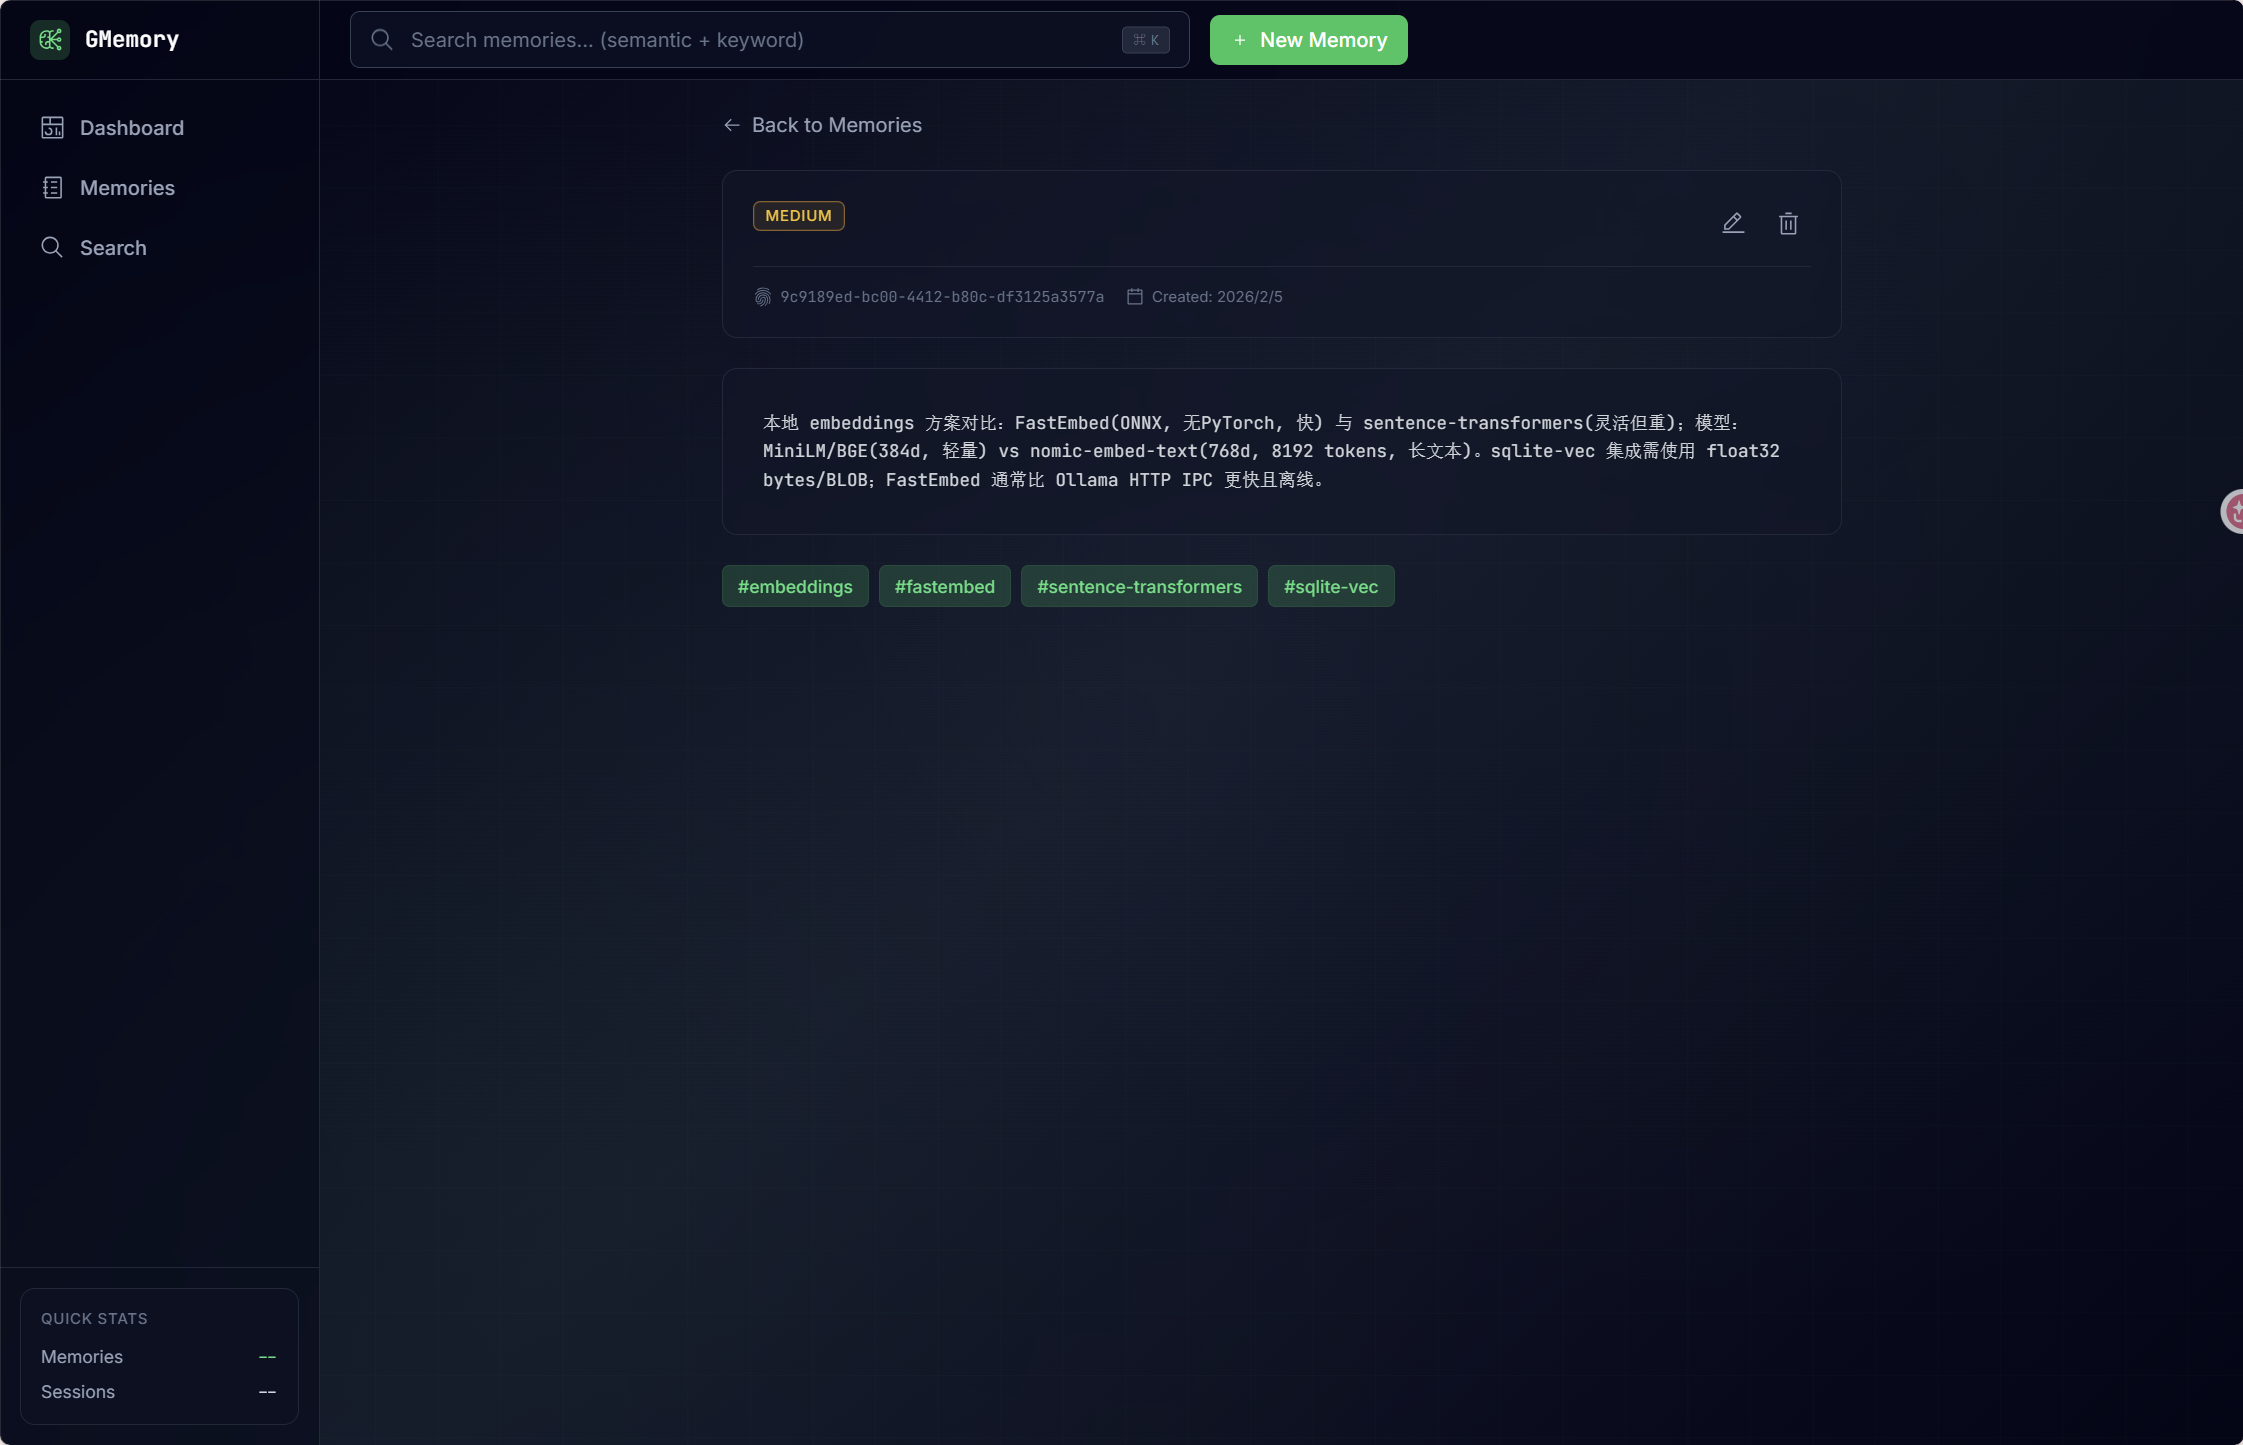
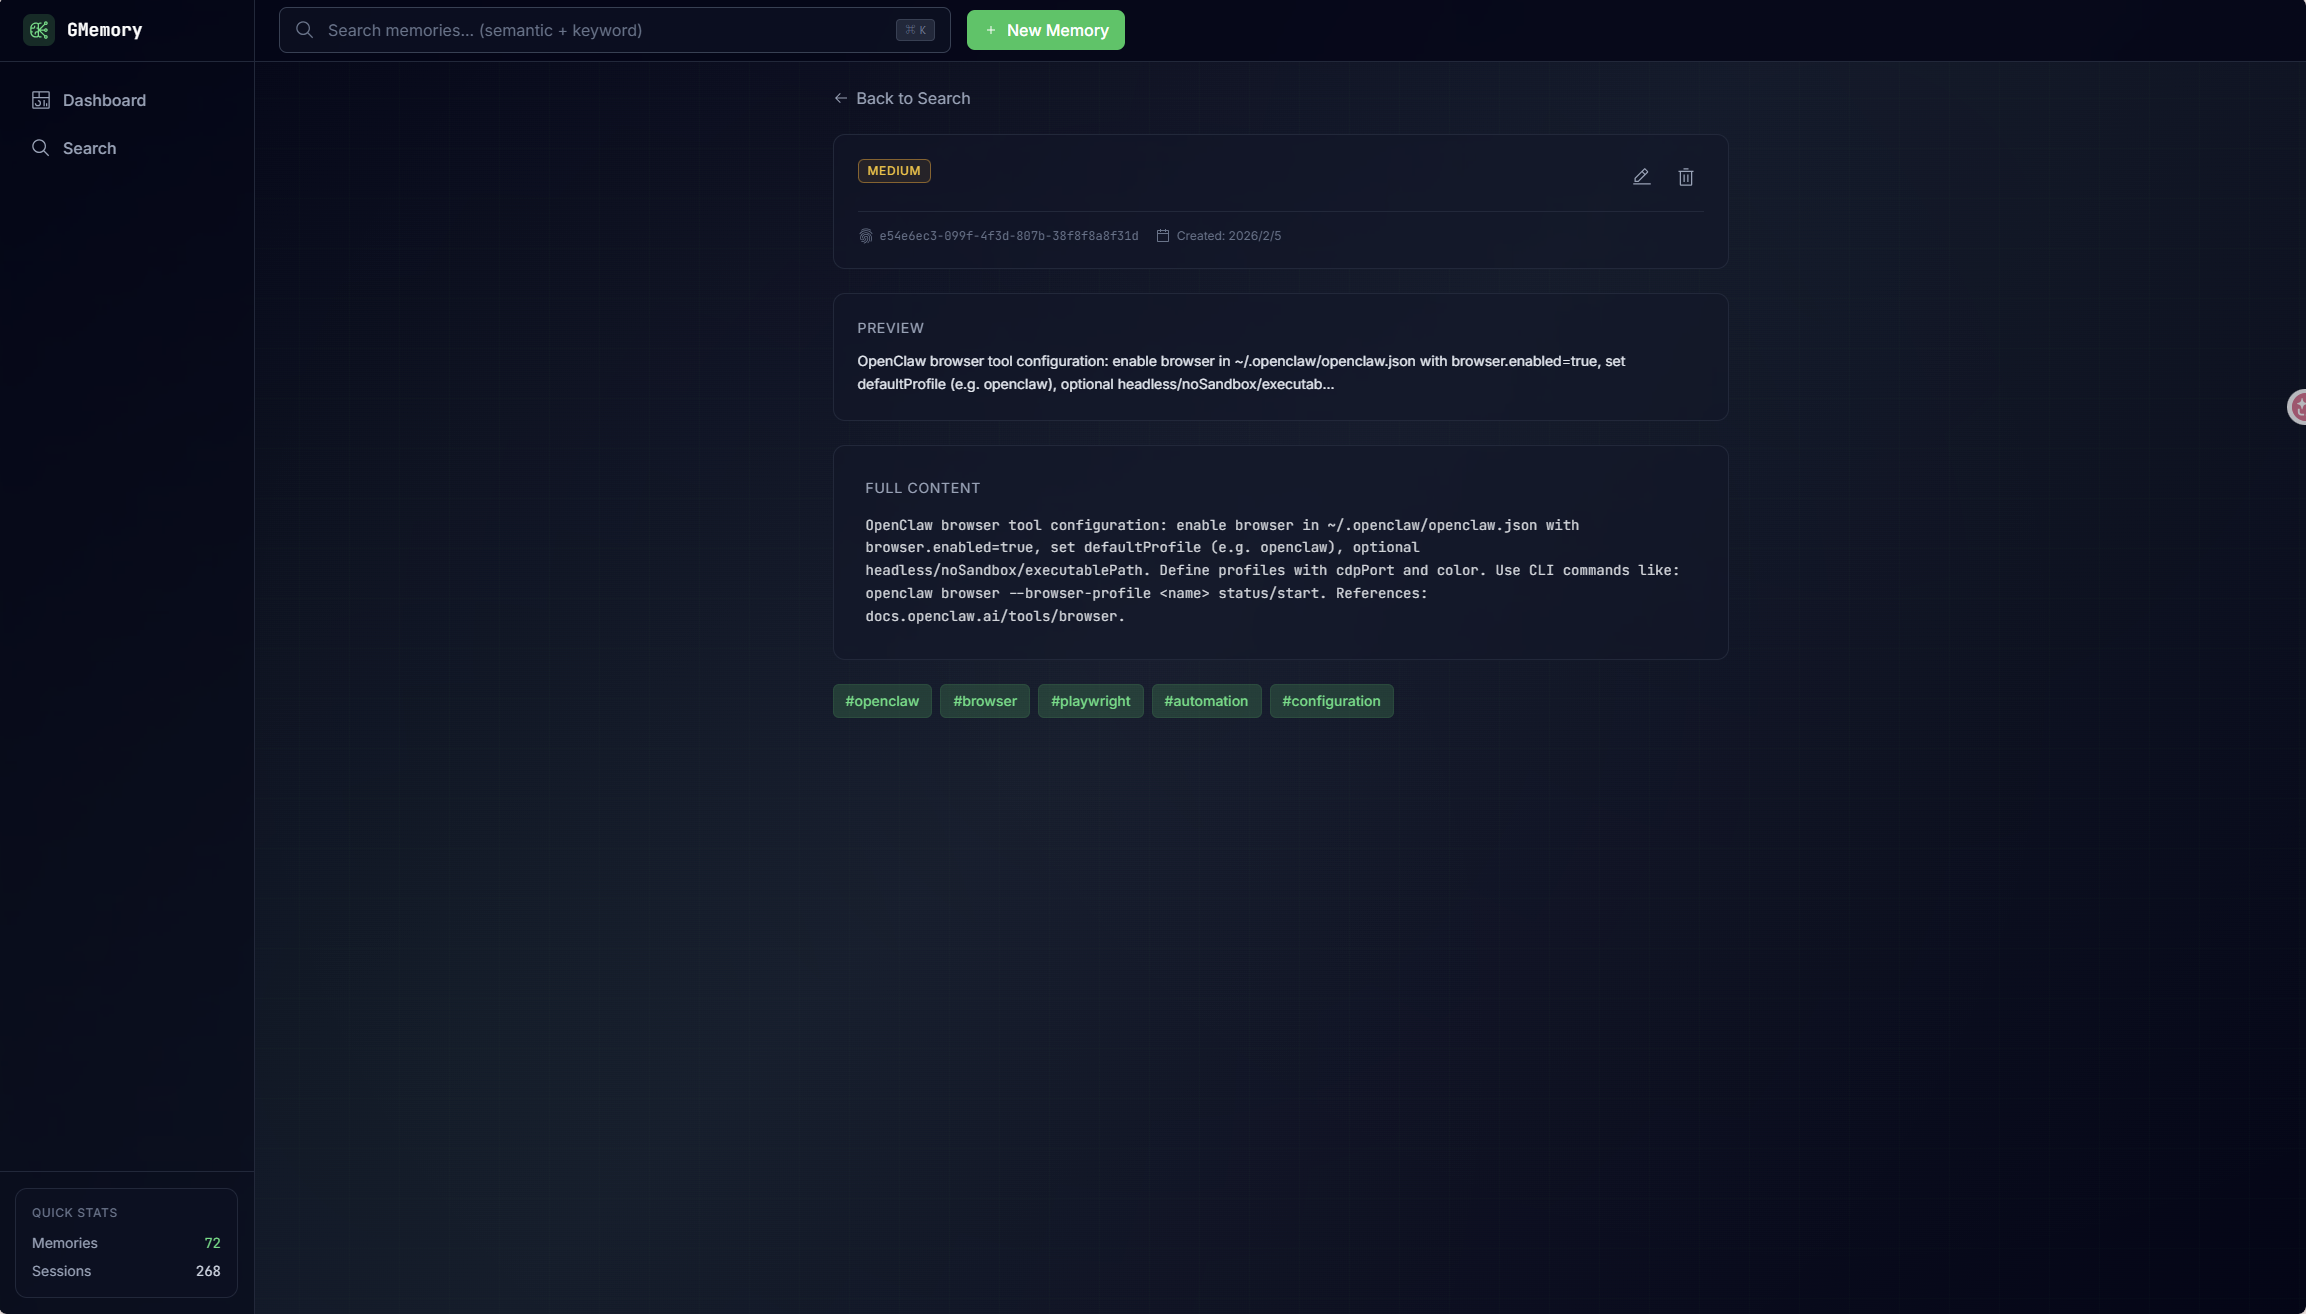
update

diff --git a/README_CN.md b/README_CN.md
@@ -8,6 +8,13 @@
 
 [English Documentation](README.md)
 
+<div align="center">
+  <img src="docs/mainpage.png" width="100%" alt="Dashboard" />
+  <br/>
+  <img src="docs/searchpage.png" width="48%" alt="Search Interface" />
+  <img src="docs/infopage.png" width="48%" alt="Memory Detail" />
+</div>
+
 ## 概述
 
 GMemory 是一个轻量级 CLI 工具，为 AI 编程助手提供持久化记忆能力。它扫描 OpenCode 会话日志，支持关键信息的提炼，并将记忆存储在本地 SQLite 数据库中，支持混合向量 + 全文搜索。
@@ -122,6 +129,31 @@ python -m gmemory.mcp
 ```
 
 客户端配置可参考 `docs/mcp-config.example.json`。
+
+在桌面环境使用 OpenCode 时，建议将 `mcp.gmemory.command` 配置为绝对路径，避免 PATH 解析差异导致连接失败。安装脚本在检测到 `~/.config/opencode/opencode.json` 时会自动写入该配置。
+
+### 端到端启动流程（OpenCode + MCP + Web）
+
+```bash
+# 1) 安装 / 升级
+powershell -ExecutionPolicy Bypass -File install.ps1   # Windows
+# 或
+./install.sh                                           # Linux/macOS
+
+# 2) 验证 CLI 与 MCP 相关命令
+gmemory health
+gmemory diagnostics
+
+# 3) 启动服务（Web UI 可选）
+gmemory-web
+cd web && npm run dev
+```
+
+如果 OpenCode 报 MCP `-32000`，优先检查：
+
+1. `~/.config/opencode/opencode.json` 里 `mcp.gmemory.command` 是否为绝对路径（不要只写 `gmemory-mcp`）。
+2. 修改配置后是否完全重启 OpenCode。
+3. `pm2` 保活 `gmemory-api` / `gmemory-frontend` 不会影响 stdio MCP 启动；常见根因是命令路径或环境变量。
 
 ## Web API 与前端
 

diff --git a/README.md b/README.md
@@ -8,6 +8,13 @@
 
 [中文文档](README_CN.md)
 
+<div align="center">
+  <img src="docs/mainpage.png" width="100%" alt="Dashboard" />
+  <br/>
+  <img src="docs/searchpage.png" width="48%" alt="Search Interface" />
+  <img src="docs/infopage.png" width="48%" alt="Memory Detail" />
+</div>
+
 ## Overview
 
 GMemory is a lightweight CLI tool that provides persistent memory for AI coding agents. It scans OpenCode session logs, enables distillation of key information, and stores memories in a local SQLite database with hybrid vector + full-text search.
@@ -122,6 +129,31 @@ python -m gmemory.mcp
 ```
 
 Use `docs/mcp-config.example.json` for client configuration.
+
+For OpenCode on desktop environments, prefer an absolute executable path for `mcp.gmemory.command` to avoid PATH resolution issues. The install scripts now auto-configure this when `~/.config/opencode/opencode.json` exists.
+
+### End-to-End Bootstrap (OpenCode + MCP + Web)
+
+```bash
+# 1) Install / upgrade
+powershell -ExecutionPolicy Bypass -File install.ps1   # Windows
+# or
+./install.sh                                           # Linux/macOS
+
+# 2) Verify CLI and MCP commands
+gmemory health
+gmemory diagnostics
+
+# 3) Start services (optional for Web UI)
+gmemory-web
+cd web && npm run dev
+```
+
+If OpenCode reports MCP `-32000`, check these first:
+
+1. `~/.config/opencode/opencode.json` has `mcp.gmemory.command` as absolute path (not just `gmemory-mcp`).
+2. OpenCode is fully restarted after config changes.
+3. `pm2` keep-alive for `gmemory-api` / `gmemory-frontend` does not affect stdio MCP startup; root cause is usually command/path/env.
 
 ## Web API and Frontend
 
